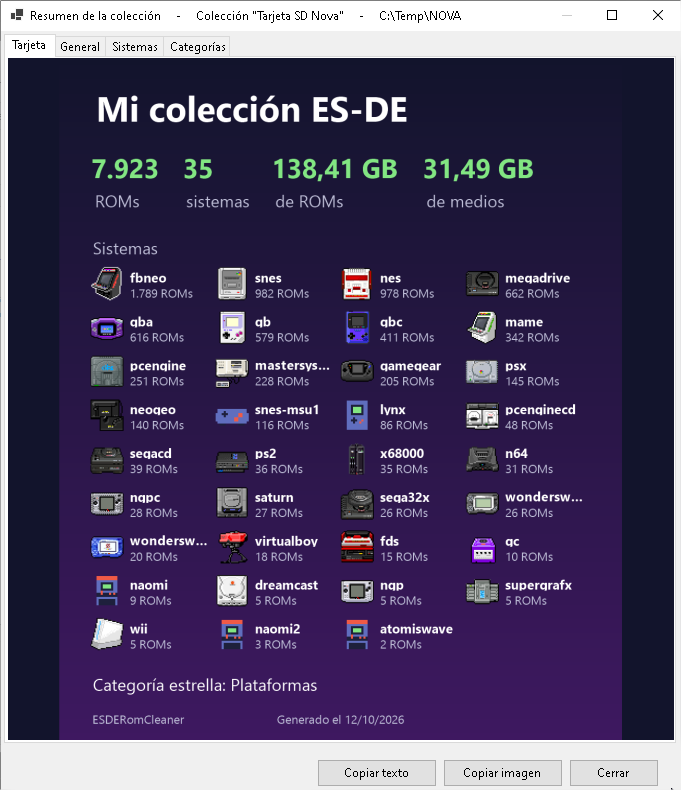
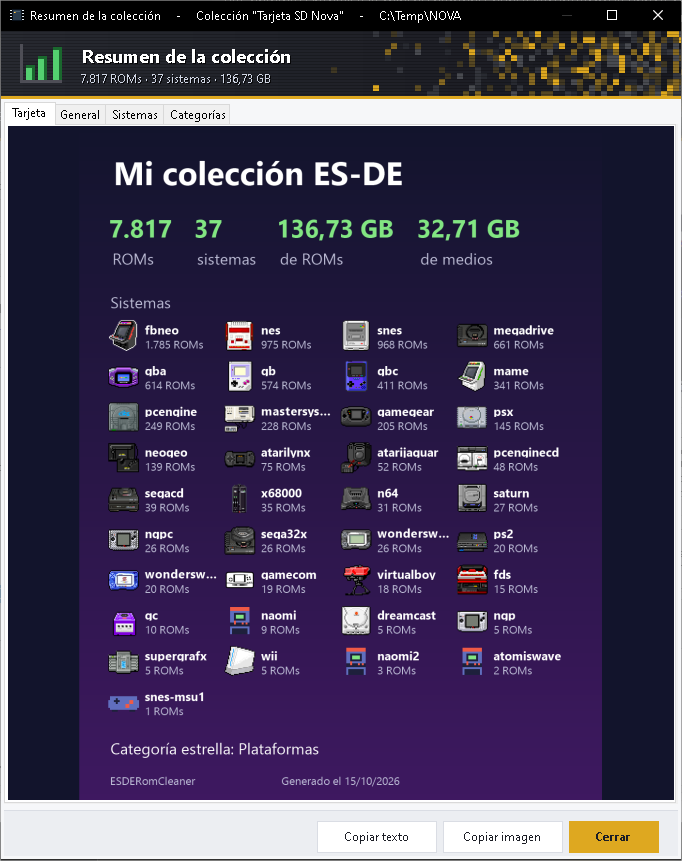
Versión 0.1.5 (alpha): README con capturas nuevas y textos de las novedades

diff --git a/README.md b/README.md
@@ -8,12 +8,12 @@ Herramienta de escritorio para Windows que ayuda a **mantener y "curar" una cole
 
 La herramienta trabaja sobre una colección con la **estructura de carpetas de ES-DE** (`Roms`, `ES-DE\gamelists`, `ES-DE\downloaded_media`). Si no la tienes, la propia aplicación puede **crearla completa** y **generar los `gamelist.xml`** a partir de tus ROMs (ver [Estructura de colección](#estructura-de-colección)). Hay más documentación en la [wiki](../../wiki).
 
-La interfaz está en **español e inglés** (*Opciones › Idioma*; por defecto, el idioma de Windows). Los comentarios del código están en español.
+La interfaz está en **español, inglés, francés, italiano y portugués** (*Opciones › Idioma*; por defecto, el idioma de Windows). Los comentarios del código están en español.
 
 ## Qué puedes hacer
 
 - **Crear la estructura de ES-DE** (carpetas de todos los sistemas oficiales, de medios y de datos, con su `systeminfo.txt`) si la ruta elegida no la tiene, y **generar los `gamelist.xml`** desde las ROMs que haya en cada carpeta. Si copias ROMs nuevas, al analizar te ofrece añadirlas al gamelist (y, si quieres, categorizarlas y descargar sus medios).
-- **Añadir ROMs** (menú *Añadir ROMs*): arrastra archivos o carpetas (hasta 2 niveles de subcarpetas) y la aplicación las **identifica por hash** con los DAT de **No-Intro, Redump, TOSEC, MAME y FBNeo** (descargables desde la propia aplicación) o con los DAT que importes (GoodTools, clrmamepro, emuladores…), las coloca en la carpeta de su sistema y solo pregunta cuando hay dudas. Entiende **packs** (comprimidos con otros comprimidos dentro, recursivamente), prueba el hash sin cabecera (NES, FDS, Lynx, SNES…) y descarta lo que no son ROMs. Puedes elegir **cómo se guardan**: como llegan, sin comprimir, ZIP o 7z (con nivel de compresión; 7-Zip va incluido en la aplicación), respetando las extensiones que admite cada sistema. Identificar, copiar y comprimir se hace **en paralelo**. Las ROMs que ya existen en la colección se apartan en una lista de **duplicadas** (botón ⛔) y, al terminar de añadir, se ofrece **scrapear justo las añadidas**.
+- **Añadir ROMs** (menú *Añadir ROMs*): arrastra archivos o carpetas (hasta 2 niveles de subcarpetas) y la aplicación las **identifica por hash** con los DAT de **No-Intro, Redump, TOSEC, MAME y FBNeo** (descargables desde la propia aplicación) o con los DAT que importes (GoodTools, clrmamepro, emuladores…), las coloca en la carpeta de su sistema y solo pregunta cuando hay dudas. Entiende **packs** (comprimidos con otros comprimidos dentro, recursivamente), prueba el hash sin cabecera (NES, FDS, Lynx, SNES…) y descarta lo que no son ROMs. Puedes elegir **cómo se guardan**: como llegan, sin comprimir, ZIP o 7z (con nivel de compresión; 7-Zip va incluido en la aplicación), respetando las extensiones que admite cada sistema. Identificar, copiar y comprimir se hace **en paralelo**. Las ROMs que ya existen en la colección se apartan en una lista de **duplicadas** (botón ⛔) y, al terminar de añadir, se ofrece **scrapear justo las añadidas**. Antes de añadirlas puedes **categorizarlas de forma temporal** (ScreenScraper se consulta solo para decidir, sin escribir nada en los gamelists) y pulsar **Curar y añadir**, que abre el curado únicamente sobre las ROMs identificadas.
 - **Explorar** la colección por sistema y categoría (género), con búsqueda (también por expresión regular), vista previa de la *miximage* y reproducción del vídeo de la ROM enfocada.
 - **Editar metadatos** de un juego (`gamelist.xml`): nombre, descripción, valoración, fecha, desarrollador, género, favoritos, etc.
 - **Scrapear con ScreenScraper**:
@@ -26,8 +26,12 @@ La interfaz está en **español e inglés** (*Opciones › Idioma*; por defecto,
 - **Borrado seguro**: plan previo con todo lo que se va a tocar (ROMs, archivos accesorios, media, gamelists), comprobación de que nada ha cambiado antes de ejecutar, copia de seguridad opcional de los gamelists y actualización solo de los sistemas afectados.
 - **Clonar la estructura de ES-DE a otra carpeta o a una tarjeta SD** (botón *Clonar*): pensado para llevar la colección ya depurada a Android, donde ES-DE suele usarse con tarjeta SD. Ver [Clonar a otra carpeta o a una tarjeta SD](#clonar-a-otra-carpeta-o-a-una-tarjeta-sd).
 - **Trazabilidad**: cada acción relevante queda anotada en un registro que se puede consultar desde la propia aplicación.
-- **Interfaz en español e inglés** (*Opciones › Idioma*): «Predeterminado del sistema» (por defecto: el idioma de Windows si es español y, si no, inglés), Español o English, con cambio inmediato. En inglés, los metadatos que se descarguen a partir de ese momento (descripción y categoría) llegan en inglés; los gamelists que ya tienes no se tocan.
-- **Colecciones** (menú *Colecciones*): crea una colección con un nombre, su carpeta y un comentario; cárgala cuando quieras desde el menú, que muestra los sistemas, ROMs y tamaño de cada una. Cada colección guarda su propio análisis, así que al volver a ella se ve al instante (con *Re-listar colección* lo actualizas). Desde el mismo menú: **clonar**, **editar** y **eliminar** colecciones (eliminar solo la quita de la lista) y ver su **resumen**, con una tarjeta que puedes copiar al portapapeles para compartir.
+- **Interfaz en español, inglés, francés, italiano y portugués** (*Opciones › Idioma*): «Predeterminado del sistema» (el idioma de Windows si es uno de ellos y, si no, inglés) o el que elijas, con cambio inmediato. Las traducciones al francés, italiano y portugués son automáticas y no las ha revisado ningún nativo: si ves algo raro, avisa. Al descargar metadatos en un idioma distinto del español, la descripción y la categoría llegan en inglés; los gamelists que ya tienes no se tocan.
+- **Colecciones** (menú *Colecciones*): crea una colección con un nombre, su carpeta y un comentario; cárgala cuando quieras desde el menú, que muestra los sistemas, ROMs y tamaño de cada una. Cada colección guarda su propio análisis, así que al volver a ella se ve al instante (con *Re-listar colección* lo actualizas). Desde el mismo menú: **clonar**, **editar** y **eliminar** colecciones (eliminar quita la colección de la lista y borra sus datos de la aplicación; si lo marcas, y tras una doble confirmación, borra también su carpeta de ROMs y/o la estructura de ES-DE, con barra de progreso) y ver su **resumen**, con una tarjeta que puedes copiar al portapapeles para compartir.
+- **Sistema custom de RetroAchievements** (menú *RetroAchievements*): crea en `ES-DE\collections` la colección personalizada «RetroAchievements» con las ROMs cotejadas por hash, sin copiar ni mover nada (ES-DE sigue leyendo cada ROM, gamelist y medio de su sistema). Antes de crearla te pregunta si quieres repetir el cotejo para descubrir ROMs nuevas, y se mantiene al día cuando vuelves a cotejar.
+- **Comprobaciones previas**: las acciones que necesitan bases de datos de ROMs, una cuenta de ScreenScraper o de RetroAchievements o conexión a internet lo comprueban **antes** de empezar o de abrir el formulario y, si falta algo, te lo explican en un aviso naranja con lo que puedes hacer.
+- **Aspecto renovado**: los formularios comparten una cabecera oscura con su icono en *pixel art* (varios animados mientras trabajan: el papiro que se escribe al categorizar, la pala de la descarga masiva, los disquetes que se copian al clonar, la papelera al borrar), con una textura que se adapta al color de cada cabecera, tablas con filas alternas y barra de título oscura. La ventana principal destaca los sistemas y las ROMs de la colección y tiene un botón de eliminar más visible.
+- **Eliminación con detalle**: el botón *ROMs seleccionadas* abre una tabla con todas las ROMs marcadas (con icono de sistema, tamaño de ROM y de medios) donde puedes desmarcar las que no quieras; la confirmación del borrado tiene un botón *Ver ficheros* con esa misma tabla y, al borrar, muestra el avance y un resumen final.
 - **Búsqueda** de ROMs en el sistema seleccionado o en todos (admite expresiones regulares); si el texto solo está en el nombre del archivo, este se muestra entre paréntesis.
 - **Huecos de la colección**: por sistema y en total, cuántos juegos no tienen categoría, imagen o vídeo (sin imagen = sin ninguna de las imágenes que lee ES-DE), con acceso directo a scrapear justo los que faltan.
 - **Excluir seleccionados**: marca ROMs como excluidas del contador y del multiscrapeo de ES-DE (`nogamecount` y `nomultiscrape`), desde la ventana principal o desde el curado, donde además se puede eliminar a partir del menú contextual.
@@ -38,7 +42,7 @@ La interfaz está en **español e inglés** (*Opciones › Idioma*; por defecto,
 
 ## Capturas
 
-**Ventana principal.** El panel del sistema (con su icono y los huecos de la colección), las ROMs, la imagen o el vídeo de la ROM enfocada y, en el título, la colección cargada.
+**Ventana principal.** Cabecera con el chip de la aplicación, la colección cargada, su ruta y la versión; las cifras de sistemas y ROMs destacadas; el panel del sistema (con su icono y los huecos de la colección), las ROMs y la imagen o el vídeo de la ROM enfocada.
 
 ![Ventana principal](docs/img/ventana-principal.png)
 
@@ -46,11 +50,19 @@ La interfaz está en **español e inglés** (*Opciones › Idioma*; por defecto,
 
 ![Menú Colecciones](docs/img/menu-colecciones.png)
 
+**Eliminar colección.** Siempre se quita de la lista y se borran sus datos de la aplicación; si lo marcas (y confirmas), también se borran su carpeta de ROMs y/o la estructura de ES-DE, con barra de progreso.
+
+![Eliminar colección](docs/img/eliminar-coleccion.png)
+
 **Resumen de la colección.** La tarjeta se puede copiar al portapapeles para compartirla.
 
 ![Resumen de la colección](docs/img/resumen-coleccion.png)
 
-**Scrapeo de una ROM.** Compara el medio que ya tienes con el que ofrece ScreenScraper (imagen o vídeo, con sonido opcional) y elige qué guardar en cada carpeta de ES-DE.
+**Añadir ROMs.** Las ROMs se identifican por hash y se colocan en la carpeta de su sistema; las dudosas esperan en «Sin decidir». *Curar y añadir* abre el curado solo sobre las identificadas, y *Añadir a la colección* las guarda.
+
+![Añadir ROMs](docs/img/anadir-roms.png)
+
+**Scrapeo de una ROM.** En la pestaña «Elegir y guardar en la colección» compara el medio que ya tienes con el que ofrece ScreenScraper (imagen o vídeo, con sonido opcional) y elige qué guardar en cada carpeta de ES-DE; los medios idénticos a los que ya tienes se omiten.
 
 ![Scrapeo de una ROM](docs/img/scrapeo-de-una-rom.png)
 
@@ -65,6 +77,10 @@ La interfaz está en **español e inglés** (*Opciones › Idioma*; por defecto,
 **Curado del romset.** Marca géneros y supracategorías para ver qué ROMs saldrían como candidatas a descartar, con el espacio que liberarías; las excluidas a mano aparecen tachadas.
 
 ![Análisis de curado](docs/img/curado-analisis.png)
+
+**Confirmación del borrado.** Resume lo que se va a eliminar (ROMs, accesorios, medios y gamelists) y el espacio que se libera; *Ver ficheros* abre la tabla de ROMs para desmarcar las que no quieras. Al pulsar BORRAR, la papelera se anima mientras se borra.
+
+![Confirmación del borrado](docs/img/confirmar-borrado.png)
 
 **Editor de metadatos.** Compacto, con el género en un desplegable y el botón de guardar activo solo si hay cambios.
 
@@ -154,6 +170,7 @@ Todo el código está en un único proyecto (`ESDERomCleaner.csproj`), ordenado 
 - [RetroAchievements](https://retroachievements.org/) por su API de logros, insignias y avatares.
 - [LibVLCSharp](https://github.com/videolan/libvlcsharp) y [VLC](https://www.videolan.org/) para la reproducción de vídeo.
 - [libretro-database](https://github.com/libretro/libretro-database) por mantener los DAT de No-Intro, Redump, TOSEC, MAME y FBNeo que se usan para identificar las ROMs, y los proyectos No-Intro, Redump y TOSEC que los elaboran.
+- [RetroAchievements](https://retroachievements.org/) por su API web (logros, puntos y progreso) y por su logotipo, que se usa como icono del sistema custom «RetroAchievements». El logotipo es marca de sus propietarios y se usa solo para identificar su servicio; este proyecto no está afiliado a RetroAchievements.
 - [libretro/retroarch-assets](https://github.com/libretro/retroarch-assets) (carpeta `xmb/dot-art`, licencia [CC BY 4.0](https://creativecommons.org/licenses/by/4.0/)) por los iconos en pixel art de cada sistema, incrustados en la aplicación (`Assets/SystemIcons`).
 - [SharpCompress](https://github.com/adamhathcock/sharpcompress) para leer archivos 7z y rar y la descompresión LZMA de los CHD. [7-Zip](https://www.7-zip.org/) (7za.exe, licencia LGPL, incluido en la aplicación) para crear archivos 7z.
 
